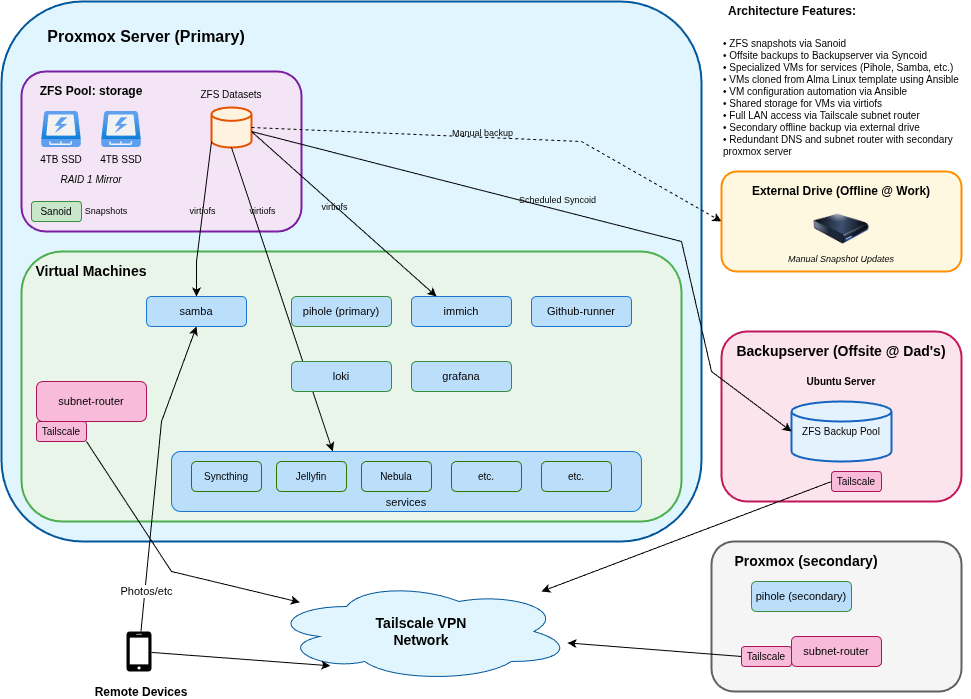
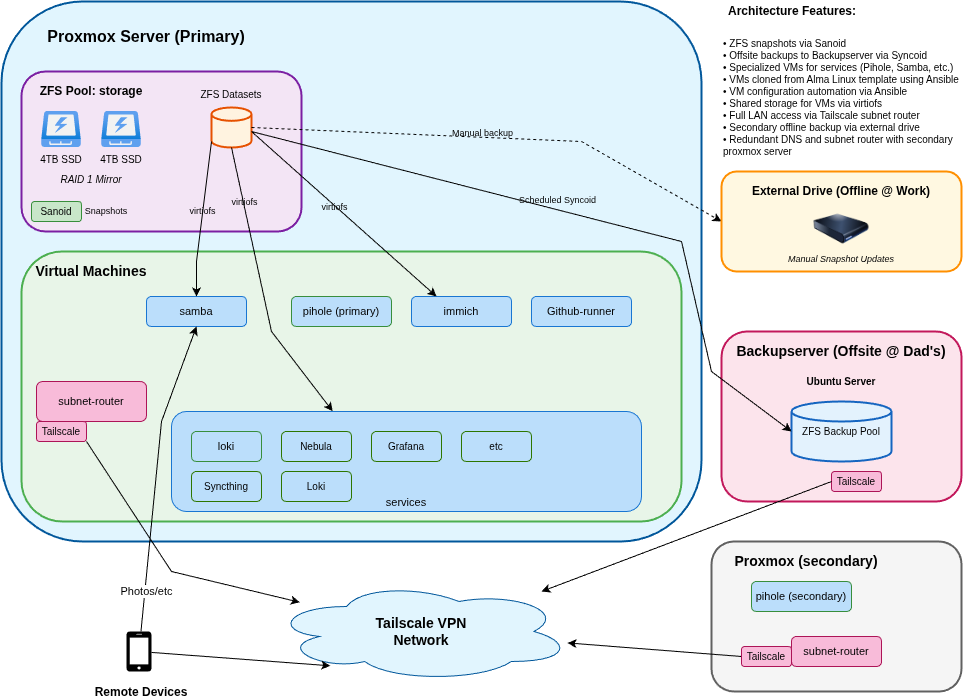
Updated architecture diagrams

Changed region(s): [[0.1545, 0.4506, 0.6797, 0.721], [0.2472, 0.2704, 0.2781, 0.3605]]

diff --git a/README.md b/README.md
@@ -2,7 +2,7 @@
 
 ## Tech Stack
 
-<img src="https://img.shields.io/badge/Proxmox-E57000?style=flat&logo=proxmox&logoColor=white" alt="Proxmox" height="25"/> <img src="https://img.shields.io/badge/AlmaLinux-000000?style=flat&logo=almalinux&logoColor=white" alt="AlmaLinux" height="25"/> <img src="https://img.shields.io/badge/ZFS-0052CC?style=flat&logo=openzfs&logoColor=white" alt="ZFS" height="25"/> <img src="https://img.shields.io/badge/GitHub-181717?style=flat&logo=github&logoColor=white" alt="GitHub" height="25"/> <img src="https://img.shields.io/badge/Ansible-EE0000?style=flat&logo=ansible&logoColor=white" alt="Ansible" height="25"/> <img src="https://img.shields.io/badge/Docker-2496ED?style=flat&logo=docker&logoColor=white" alt="Docker" height="25"/> <img src="https://img.shields.io/badge/Pi--hole-96060C?style=flat&logo=pihole&logoColor=white" alt="Pi-hole" height="25"/> <img src="https://img.shields.io/badge/Tailscale-000000?style=flat&logo=tailscale&logoColor=white" alt="Tailscale" height="25"/> <img src="https://img.shields.io/badge/Grafana-F46800?style=flat&logo=grafana&logoColor=white" alt="Grafana" height="25"/> <img src="https://img.shields.io/badge/Loki-F46800?style=flat&logo=grafana&logoColor=white" alt="Loki" height="25"/> <img src="https://img.shields.io/badge/Immich-4250AF?style=flat&logo=immich&logoColor=white" alt="Immich" height="25"/> <img src="https://img.shields.io/badge/CouchDB-E42528?style=flat&logo=apachecouchdb&logoColor=white" alt="CouchDB" height="25"/> <img src="https://img.shields.io/badge/Jellyfin-00A4DC?style=flat&logo=jellyfin&logoColor=white" alt="Jellyfin" height="25"/> <img src="https://img.shields.io/badge/Syncthing-0891D1?style=flat&logo=syncthing&logoColor=white" alt="Syncthing" height="25"/> <img src="https://img.shields.io/badge/Ubuntu-E95420?style=flat&logo=ubuntu&logoColor=white" alt="Ubuntu" height="25"/> <img src="https://img.shields.io/badge/Samba-B10000?style=flat&logo=samba&logoColor=white" alt="Samba" height="25"/> <img src="https://img.shields.io/badge/firewalld-EE0000?style=flat&logo=firewalld&logoColor=white" alt="firewalld" height="25"/> <img src="https://img.shields.io/badge/SELinux-0066CC?style=flat&logo=linux&logoColor=white" alt="SELinux" height="25"/>
+<img src="https://img.shields.io/badge/Proxmox-E57000?style=flat&logo=proxmox&logoColor=white" alt="Proxmox" height="25"/> <img src="https://img.shields.io/badge/AlmaLinux-000000?style=flat&logo=almalinux&logoColor=white" alt="AlmaLinux" height="25"/> <img src="https://img.shields.io/badge/ZFS-0052CC?style=flat&logo=openzfs&logoColor=white" alt="ZFS" height="25"/> <img src="https://img.shields.io/badge/GitHub-181717?style=flat&logo=github&logoColor=white" alt="GitHub" height="25"/> <img src="https://img.shields.io/badge/Ansible-EE0000?style=flat&logo=ansible&logoColor=white" alt="Ansible" height="25"/> <img src="https://img.shields.io/badge/Docker-2496ED?style=flat&logo=docker&logoColor=white" alt="Docker" height="25"/> <img src="https://img.shields.io/badge/Pi--hole-96060C?style=flat&logo=pihole&logoColor=white" alt="Pi-hole" height="25"/> <img src="https://img.shields.io/badge/Tailscale-000000?style=flat&logo=tailscale&logoColor=white" alt="Tailscale" height="25"/> <img src="https://img.shields.io/badge/Grafana-F46800?style=flat&logo=grafana&logoColor=white" alt="Grafana" height="25"/> <img src="https://img.shields.io/badge/Loki-F46800?style=flat&logo=grafana&logoColor=white" alt="Loki" height="25"/> <img src="https://img.shields.io/badge/Immich-4250AF?style=flat&logo=immich&logoColor=white" alt="Immich" height="25"/> <img src="https://img.shields.io/badge/CouchDB-E42528?style=flat&logo=apachecouchdb&logoColor=white" alt="CouchDB" height="25"/> <img src="https://img.shields.io/badge/Vaultwarden-175DDC?style=flat&logo=bitwarden&logoColor=white" alt="Vaultwarden" height="25"/> <img src="https://img.shields.io/badge/Syncthing-0891D1?style=flat&logo=syncthing&logoColor=white" alt="Syncthing" height="25"/> <img src="https://img.shields.io/badge/Ubuntu-E95420?style=flat&logo=ubuntu&logoColor=white" alt="Ubuntu" height="25"/> <img src="https://img.shields.io/badge/Samba-B10000?style=flat&logo=samba&logoColor=white" alt="Samba" height="25"/> <img src="https://img.shields.io/badge/firewalld-EE0000?style=flat&logo=firewalld&logoColor=white" alt="firewalld" height="25"/> <img src="https://img.shields.io/badge/SELinux-0066CC?style=flat&logo=linux&logoColor=white" alt="SELinux" height="25"/>
 
 ![setup](server-architecture.png)
 
@@ -16,8 +16,8 @@ My homelab uses a strict GitOps principle where a single GitHub repository is th
 
 - **"Nuke and Pave" Pipeline:** A **`github-runner` VM** executes the CI/CD pipeline. To prevent drift, major updates involve destroying the old instance and reprovisioning a new one from the Golden Image.
 - **Weekly Maintenance:** Ansible configures local **cron jobs** on VMs to handle OS updates, service restarts, and updates for Pi-hole and Docker Compose apps.
-- **Alerting:** Scripts log activity and provide instant feedback (success/failure) to my phone via **Pushover**.
-- **Observability:** **Loki** centralizes log aggregation from all VMs (via **Promtail**), while **Grafana** provides visualization and monitoring dashboards for the entire infrastructure.
+- **Monitoring:** **UptimeKuma** tracks service uptime with push/ping/HTTP checks across the infrastructure.
+- **Observability:** **Loki** centralizes log aggregation from all VMs (via **Promtail**), while **Grafana** provides dashboards for error logs, internet uptime checks, and other metrics.
 
 ### Core Infrastructure & Security
 
@@ -29,8 +29,9 @@ My homelab uses a strict GitOps principle where a single GitHub repository is th
 
 **Tailscale** provides a secure mesh backbone with HTTPS access via **Tailscale Serve** proxying through the subnet-router for mobile clients. Primary and secondary Pi-hole VMs provide content filtering and DNS resolution for the entire network via the gateway.
 
-- **Key VMs:** **`github-runner`** (CI/CD), **`samba`** (File server/backup ingestion), **`immich`** (Photos/Video), **`loki`** (Log aggregation), **`grafana`** (Monitoring/Visualization), and **`services`** (Docker host for Jellyfin, Syncthing, CouchDB, Nebula).
-- **CouchDB** on services VM provides self-hosted Obsidian LiveSync for notes synchronization across iPhone, Android, Windows, and Linux devices with HTTPS access via Tailscale.
+- **Key VMs:** **`github-runner`** (CI/CD), **`samba`** (File server/backup ingestion), **`immich`** (Photos/Video), **`loki`** (Log aggregation), **`grafana`** (Error logs/Visualization), and **`services`** (Docker host for Syncthing, CouchDB, Vaultwarden, Nebula, UptimeKuma).
+- **CouchDB** on the services VM serves as the backend for **Obsidian LiveSync**, synchronizing notes across iPhone, Android, Windows, and Linux devices with HTTPS access via Tailscale.
+- **Vaultwarden** provides a self-hosted Bitwarden-compatible password manager, accessible securely over Tailscale.
 
 ### Data Protection (3-2-1 Strategy)
 
